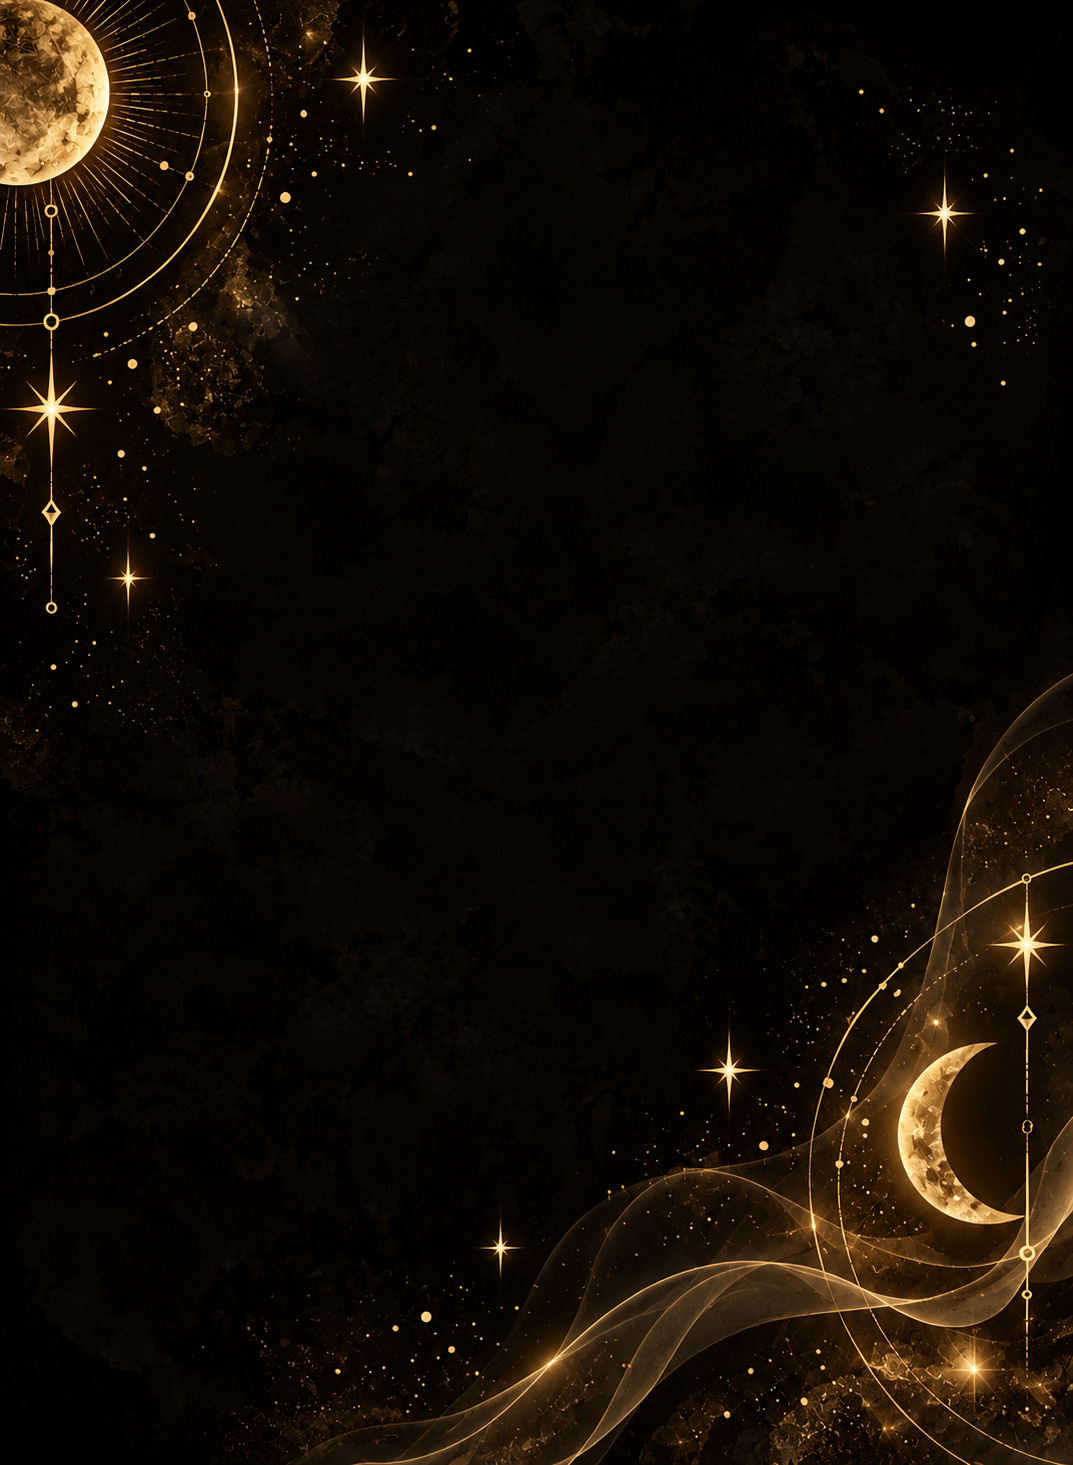
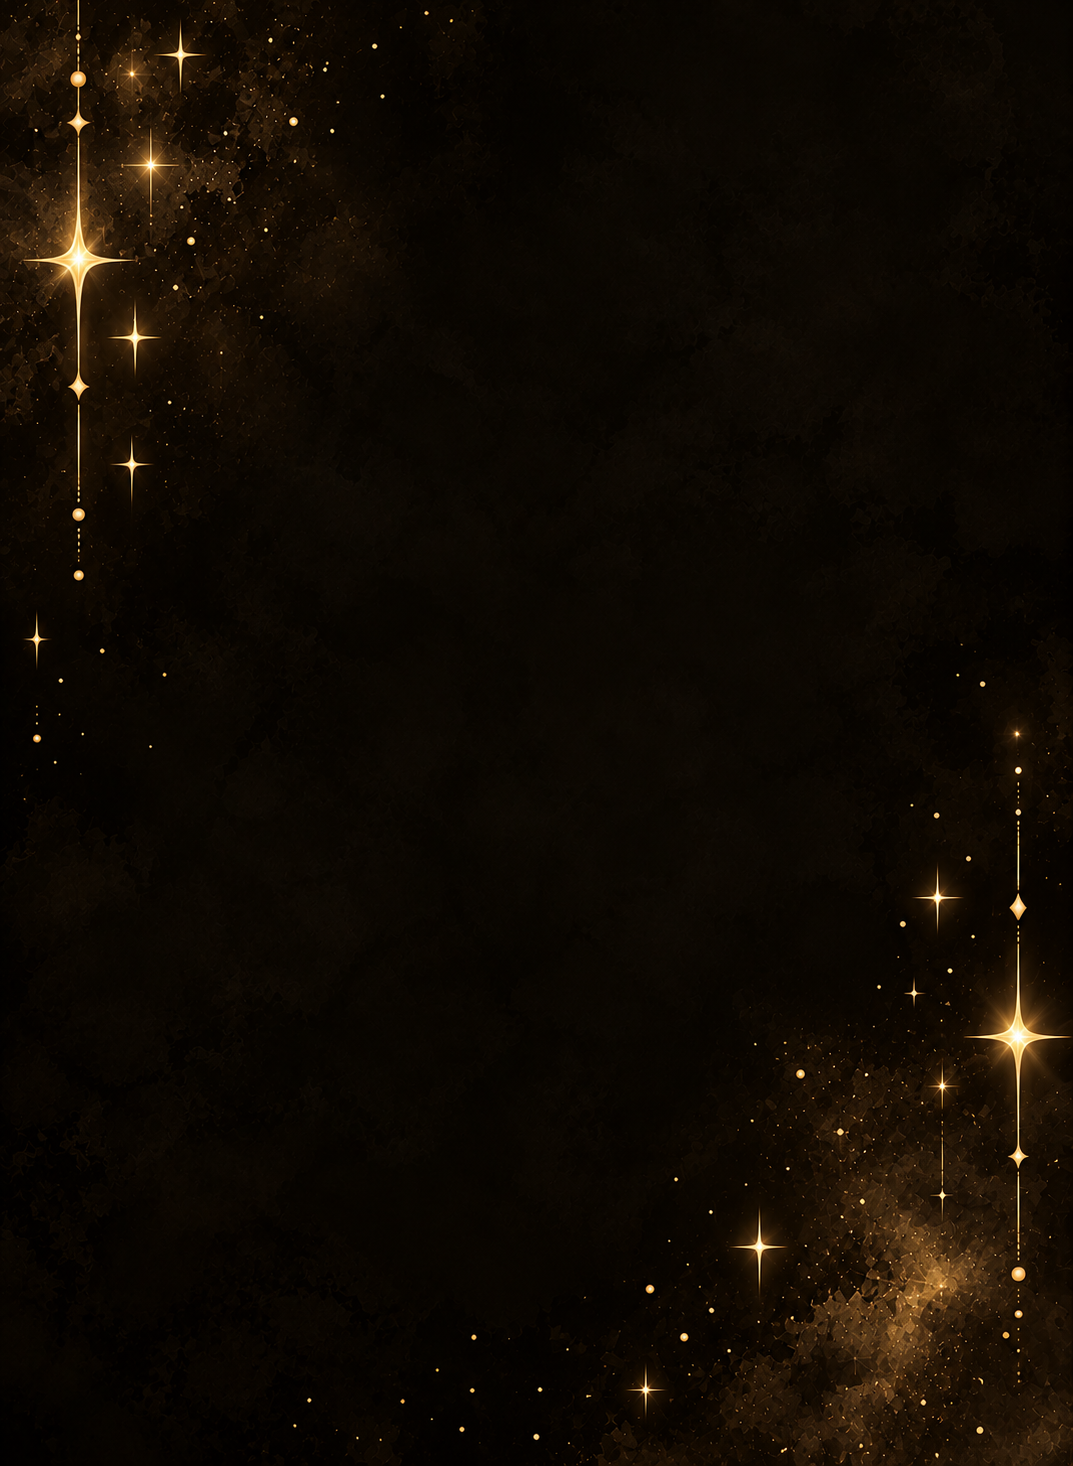
improved website view

diff --git a/app/globals.css b/app/globals.css
@@ -266,7 +266,7 @@ ul{ list-style:none; margin:0; padding:0; }
 .hero-badges{
   display:flex; gap:14px; flex-wrap:wrap; margin-top:34px;
 }
-.hero-badge{ display:flex; align-items:center; gap:8px; font-size:12px; color:var(--ink-soft); }
+.hero-badge{ display:flex; align-items:center; gap:8px; font-size:13.5px; color:var(--ink-soft); }
 .hero-badge svg{ width:22px; height:22px; color:var(--gold); }
 .hero-title{ font-family:'Casanova Serif Display','Didot','Playfair Display',serif; font-size:clamp(38px,4.2vw,58px); line-height:1.02; letter-spacing:.015em; text-transform:uppercase; margin-bottom:22px; }
 .hero-title::after{ content:""; display:block; width:245px; height:1px; margin-top:18px; background:var(--gold-soft); }
@@ -276,9 +276,9 @@ ul{ list-style:none; margin:0; padding:0; }
 
 .hero-quote{
   position:static; width:100%; max-width:520px; margin:26px 0 0; padding:14px 0 0 18px; border-left:1px solid var(--gold);
-  font-size:16px; line-height:1.4; text-align:left;
+  font-size:18px; line-height:1.4; text-align:left;
 }
-.hero-quote cite{ display:inline; margin-left:8px; font-style:normal; font-family:'Jost'; font-size:13px; color:var(--gold); white-space:nowrap; }
+.hero-quote cite{ display:inline; margin-left:8px; font-style:normal; font-family:'Jost'; font-size:14px; color:var(--gold); white-space:nowrap; }
 .mobile-shiva-visual{ display:none; position:relative; }
 
 @media (max-width:980px){
@@ -312,14 +312,14 @@ ul{ list-style:none; margin:0; padding:0; }
   .hero-ctas{ flex-direction:column; width:100%; margin-top:18px; }
   .hero-ctas .btn{ flex:1 1 auto; width:100%; justify-content:center; padding-left:16px; padding-right:16px; }
   .hero-badges{ display:grid; grid-template-columns:repeat(2, minmax(0, 1fr)); gap:10px 16px; margin-top:24px; }
-  .hero-badge{ justify-content:center; font-size:11px; text-align:center; }
+  .hero-badge{ justify-content:center; font-size:13px; text-align:center; }
   .hero-badge svg{ width:18px; height:18px; }
   .hero-quote{
     position:static; width:100%; max-width:330px; margin:18px auto 0;
     padding:14px 12px 0; border-left:0; border-top:1px solid var(--gold); border-right:0;
-    font-size:14px; line-height:1.45; text-align:center;
+    font-size:16px; line-height:1.45; text-align:center;
   }
-  .hero-quote cite{ display:block; margin-top:7px; font-size:11px; }
+  .hero-quote cite{ display:block; margin-top:7px; font-size:13px; }
 }
 
 /* Illustration */
@@ -364,7 +364,7 @@ ul{ list-style:none; margin:0; padding:0; }
 @media (max-width:600px){ .services-grid{ grid-template-columns:1fr; } .services-head{ flex-direction:column; align-items:flex-start; } }
 
 .service-card{
-  background-color:rgba(255,255,255,0.65); background-image:url('/images/card_bg_light_theme.png'); background-position:center center; background-size:100% 100%; background-repeat:no-repeat;
+  background-color:rgba(255,255,255,0.65); background-image:url('/images/card_bg_light_theme.png'); background-position:center center; background-size:100% 100%; background-repeat:no-repeat; filter:blur(1px);
   border:1px solid var(--border); border-radius:var(--radius-md);
   padding:32px 26px; transition:transform .3s ease, box-shadow .3s ease, border-color .3s ease;
   color:#1a1a1a;
@@ -373,7 +373,11 @@ ul{ list-style:none; margin:0; padding:0; }
   background-color:rgba(20,15,30,0.65); background-image:url('/images/card_bg_dark_theme.png'); background-position:center center; background-size:100% 100%; background-repeat:no-repeat;
   color:#f0f0f0;
 }
-.service-card:hover{ transform:translateY(-6px); box-shadow:var(--shadow); border-color:var(--gold); }
+[data-theme="dark"] .service-card::before{ background-image:url('/images/card_bg_dark_theme.png'); }
+[data-theme="dark"] .service-card input, [data-theme="dark"] .service-card select, [data-theme="dark"] .service-card textarea{ background:rgba(20,15,30,0.85) !important; color:#f0f0f0 !important; }
+.service-card::before{ content:""; position:absolute; inset:0; z-index:-1; background-image:url('/images/card_bg_light_theme.png'); background-position:center center; background-size:100% 100%; background-repeat:no-repeat; filter:blur(2px); opacity:0.7; }
+.service-card > *{ position:relative; z-index:1; }
+.service-card input, .service-card select, .service-card textarea{ background:rgba(255,255,255,0.85) !important; color:#1a1a1a !important; }
 .services-grid .service-card{ display:flex; flex-direction:column; border-color:var(--gold); border-width:1.5px; }
 .services-grid .service-card .btn-link{ margin-top:auto; padding-top:8px; }
 .home-services-section{
@@ -466,6 +470,8 @@ ul{ list-style:none; margin:0; padding:0; }
 .story-panel h2{ font-size:clamp(24px,3vw,32px); }
 
 .reviews-heading-art{ display:flex; align-items:center; justify-content:center; gap:18px; min-height:270px; }
+[data-theme="dark"] .reviews-heading-art{ background-image:url('/images/review_laptop_dark_view.png'); background-size:cover; background-position:center; background-attachment:fixed; }
+[data-theme="dark"] #dark-bg{ opacity:1 !important; }
 .reviews-heading-copy{ position:relative; z-index:1; }
 .reviews-heading-copy h1,.reviews-heading-copy p{ position:relative; }
 .reviews-leaf{ width:158px; height:240px; object-fit:contain; opacity:1; mix-blend-mode:multiply; }
@@ -608,14 +614,18 @@ ul{ list-style:none; margin:0; padding:0; }
 .contact-page::before{
   z-index:-2;
   background:url('/images/contact_page_light_theme.png') center/cover no-repeat;
-  filter:blur(4px);
+  filter:blur(0px);
 }
 .contact-page::after{
   z-index:-1;
-  background:color-mix(in srgb, var(--bg) 28%, transparent);
+  background:color-mix(in srgb, var(--bg) 55%, transparent);
+}
+[data-theme="dark"] .contact-page::after{
+  background:color-mix(in srgb, var(--bg) 55%, transparent);
 }
 [data-theme="dark"] .contact-page::before{
   background-image:url('/images/contact%20_page_dark_theme.png');
+  filter:blur(0px);
 }
 .contact-page + .site-footer{ position:relative; z-index:1; }
 .contact-page > .page-hero,
@@ -788,7 +798,7 @@ ul{ list-style:none; margin:0; padding:0; }
 .contact-card-arrow{ flex:0 0 auto; color:var(--gold); display:flex; align-items:center; justify-content:center; padding:6px; margin-top:2px; transition:transform .2s ease, color .2s ease; }
 .emergency-contact-card p{ overflow-wrap:anywhere; line-height:1.4; }
 .contact-card-arrow:hover{ color:var(--ink); transform:translateX(4px); }
-.services-catalogue-grid{ grid-template-columns:repeat(4,minmax(0,1fr)); align-items:stretch; }
+.services-catalogue-grid{ grid-template-columns:repeat(4,minmax(0,1fr)); align-items:stretch; gap:30px; }
 .services-catalogue-section{ position:relative; isolation:isolate; overflow:hidden; }
 .services-catalogue-section::before{
   content:"";
@@ -796,9 +806,10 @@ ul{ list-style:none; margin:0; padding:0; }
   z-index:-1;
   inset:0;
   background:var(--bg) center/cover no-repeat;
+  filter:blur(2px);
 }
 .services-catalogue-section > .container{ position:relative; z-index:1; }
-.services-catalogue-grid .service-card{ display:flex; flex-direction:column; height:100%; min-width:0; }
+.services-catalogue-grid .service-card{ display:flex; flex-direction:column; height:100%; min-width:0; min-height:320px; }
 .services-catalogue-grid .service-card{ position:relative; overflow:hidden; transition:transform .4s ease, box-shadow .4s ease, border-color .3s ease; }
 .services-catalogue-grid .service-card::after{ content:""; position:absolute; inset:0; pointer-events:none; background:linear-gradient(115deg, transparent 30%, rgba(255,255,255,.3) 48%, transparent 65%); transform:translateX(-125%); transition:transform .8s ease; }
 .services-catalogue-grid .service-card:hover{ transform:translateY(-5px); box-shadow:0 14px 26px rgba(93,72,36,.12); }
@@ -828,9 +839,11 @@ ul{ list-style:none; margin:0; padding:0; }
 @media (min-width:1081px){
   .services-catalogue-section::before{
     background-image:url('/images/services_bg_laptop.png');
+    filter:blur(3px);
   }
   [data-theme="dark"] .services-catalogue-section::before{
     background-image:url('/images/services_bg_laptop_dark.png');
+    filter:blur(5px);
   }
   .services-catalogue-section::after{
     content:"";
@@ -1046,6 +1059,7 @@ ul{ list-style:none; margin:0; padding:0; }
     display:flex;
     align-items:stretch;
     padding:16px;
+    min-height:280px;
   }
   .services-catalogue-grid .service-card .service-card-image{
     width:calc(100% + 32px);
@@ -1067,9 +1081,11 @@ ul{ list-style:none; margin:0; padding:0; }
 /* Forms */
 .form-field{ margin-bottom:18px; }
 .form-field label{ display:block; font-size:12.5px; letter-spacing:.05em; text-transform:uppercase; color:var(--ink-soft); margin-bottom:8px; }
+.form-field input::placeholder, .form-field select::placeholder, .form-field textarea::placeholder{ color:#8a7a5a; opacity:1; }
+[data-theme="dark"] .form-field input::placeholder, [data-theme="dark"] .form-field select::placeholder, [data-theme="dark"] .form-field textarea::placeholder{ color:#c4b8a0; opacity:1; }
 .form-field input, .form-field select, .form-field textarea{
   width:100%; padding:14px 16px; border-radius:var(--radius-sm); border:1px solid var(--border);
-  background:var(--bg-alt); color:var(--ink); font-family:'Jost'; font-size:14.5px;
+  background:rgba(255,255,255,0.55); backdrop-filter:blur(6px); -webkit-backdrop-filter:blur(6px); color:var(--ink); font-family:'Jost'; font-size:14.5px;
 }
 .form-field textarea{ resize:vertical; min-height:120px; }
 .form-field input:focus, .form-field select:focus, .form-field textarea:focus{ outline:2px solid var(--gold); outline-offset:1px; }
@@ -1886,12 +1902,14 @@ ul{ list-style:none; margin:0; padding:0; }
     background-position:center;
     background-size:cover;
     background-repeat:no-repeat;
+    filter:blur(2px);
   }
   [data-theme="dark"] .services-catalogue-section::before{
     background-image:
       linear-gradient(to right, var(--bg) 0%, color-mix(in srgb, var(--bg) 58%, transparent) 12%, transparent 32%, transparent 68%, color-mix(in srgb, var(--bg) 58%, transparent) 88%, var(--bg) 100%),
       linear-gradient(to bottom, var(--bg) 0%, color-mix(in srgb, var(--bg) 46%, transparent) 10%, transparent 26%, transparent 78%, color-mix(in srgb, var(--bg) 54%, transparent) 92%, var(--bg) 100%),
       url('/images/services_bg_phone_dark.png');
+    filter:blur(2px);
   }
   .services-catalogue-section::after{
     content:"";
@@ -2016,7 +2034,7 @@ ul{ list-style:none; margin:0; padding:0; }
   .hero-ctas{ width:min(300px, 100%); flex-direction:column; gap:9px; margin-top:18px; }
   .hero-ctas .btn{ width:100%; min-height:44px; justify-content:center; padding:11px 16px; font-size:12px; }
   .hero-badges{ width:100%; display:grid; grid-template-columns:repeat(2, minmax(0, 1fr)); gap:14px 10px; margin-top:24px; }
-  .hero-badge{ justify-content:center; gap:7px; font-size:10px; line-height:1.25; text-align:center; }
+  .hero-badge{ justify-content:center; gap:7px; font-size:12px; line-height:1.25; text-align:center; }
   .hero-badge svg{ width:18px; height:18px; flex:0 0 18px; }
   .hero-quote{
     position:static;
@@ -2030,5 +2048,5 @@ ul{ list-style:none; margin:0; padding:0; }
     line-height:1.45;
     text-align:center;
   }
-  .hero-quote cite{ display:block; margin:7px 0 0; font-size:11px; }
+  .hero-quote cite{ display:block; margin:7px 0 0; font-size:13px; }
 }

diff --git a/app/reviews/page.jsx b/app/reviews/page.jsx
@@ -74,16 +74,16 @@ export default function ReviewsPage() {
 
   return (
     <>
+      <div style={{ position: 'fixed', inset: 0, zIndex: -1, backgroundImage: "url('/images/review_laptop_light_theme.png')", backgroundSize: 'cover', backgroundPosition: 'center', backgroundRepeat: 'no-repeat' }} />
+      <div style={{ position: 'fixed', inset: 0, zIndex: -1, backgroundImage: "url('/images/review_laptop_dark_view.png')", backgroundSize: 'cover', backgroundPosition: 'center', backgroundRepeat: 'no-repeat', opacity: 0 }} id="dark-bg" />
       <section className="page-hero">
         <div className="container">
           <div className="reviews-heading-art">
-            <Image className="reviews-leaf reviews-leaf-left" src={theme === "dark" ? "/images/left_leaf_dark.png" : "/images/left_leaf.png"} alt="" width={180} height={240} priority />
             <div className="reviews-heading-copy">
               <div className="eyebrow" style={{ justifyContent: "center" }}>Words from Beautiful Souls</div>
               <h1>500+ souls<br />1,000+ stories</h1>
               <p>A glimpse into the journeys of the people who&apos;ve sat across the mirror.</p>
             </div>
-            <Image className="reviews-leaf reviews-leaf-right" src={theme === "dark" ? "/images/right_leaf_dark.png" : "/images/right_leaf.png"} alt="" width={180} height={240} priority />
           </div>
           <button type="button" className="btn btn-primary review-trigger" onClick={toggleReviewForm}>
             {showForm ? "Close Review Form" : "Add Your Review"}
